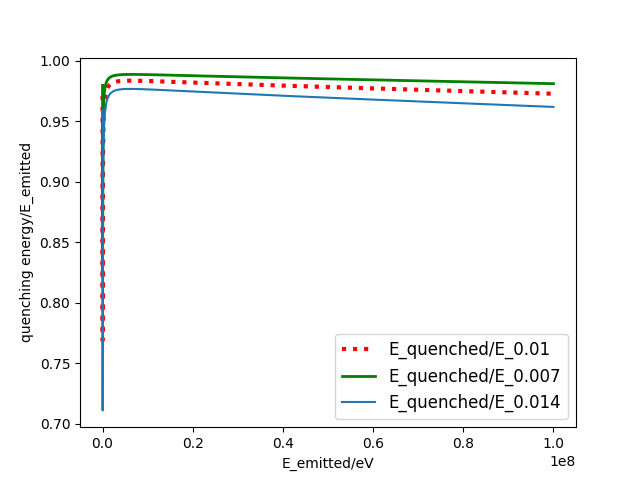
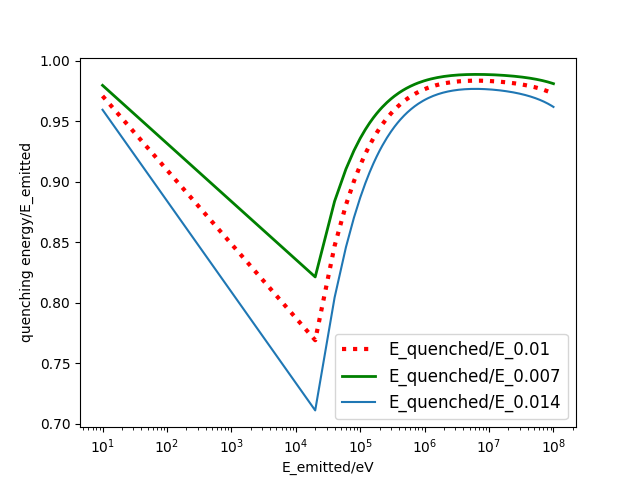
E_quenching/E_emitted log

diff --git a/MCTDCRcode/TDCR_model_lib.py b/MCTDCRcode/TDCR_model_lib.py
@@ -338,7 +338,7 @@ for i in x:
 plt.plot(x,s2,label='E_quenched/E_0.01',ls=':',color='red',lw=3)
 plt.plot(x,s1,label='E_quenched/E_0.007',color='green',lw=2)
 plt.plot(x,s3,label='E_quenched/E_0.014')
-#plt.xscale('log')
+plt.xscale('log')
 #plt.yscale('log')
 plt.legend(fontsize=12,loc='best')
 plt.xlabel('E_emitted/eV')

diff --git a/MCTDCRcode/MCNP-MATRIX/test.py b/MCTDCRcode/MCNP-MATRIX/test.py
@@ -1,0 +1,10 @@
+import numpy as np
+import linecache as lc
+
+a = lc.getline('input/template.txt',5)
+with open("input/input_test.txt",mode='w') as file:
+    for i in range(1,44):
+        a = lc.getline('input/template.txt',i)
+        file.write(a)
+
+    
